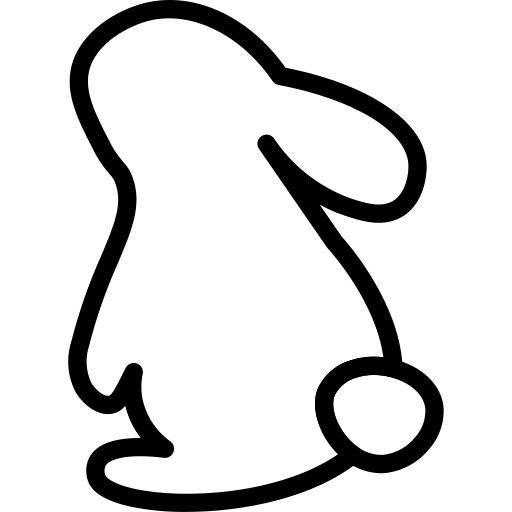
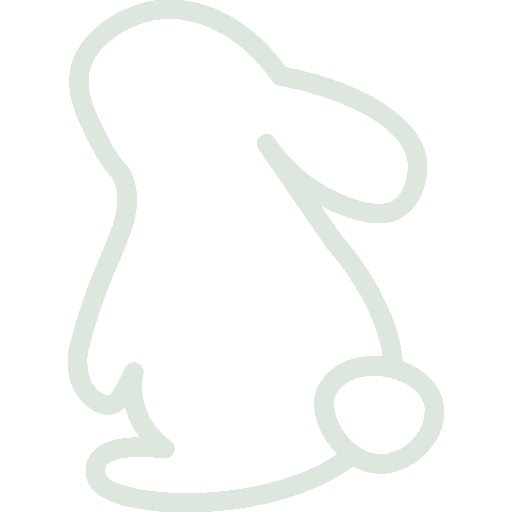
main 두번째화면 작업중
main 두번째화면 작업중

Changed region(s): [[0.125, 0.0, 0.875, 1.0]]

diff --git a/src/scss/_main.scss b/src/scss/_main.scss
@@ -9,6 +9,8 @@
 	touch-action: none;
     background-image: url("../../public/img/rabbit.png");
     background-repeat: no-repeat;        
+    background-size: 20%;
+    background-position: right 45% bottom 10%;
 	.inner {
 		position: relative;
 		display: flex;
@@ -36,7 +38,7 @@
     }
     h2 {
         margin-bottom: 40px;
-        font-size: 80px;
+        font-size: 60px;
         font-weight: 500;
         line-height: 1.3;
     }
@@ -48,11 +50,18 @@
         color: #4a6869;
     }
     .btn {
-        display: felx;
-        padding: 15px 25px;
-        font-size: 15px;
-        border-radius: 100px;
-        color: #fff;
+        display: flex;
+		width: 250px;
+		height: 67px;
+		margin-right: auto;
+		font-size: 18px;
+		border-radius: 100px;
+		color: #fff;
+		background-color: #4a6869;
+		z-index: 1;
+		align-items: center;
+		justify-content: center;
+		transition: all 0.5s;
         &::after {
             content: '>';
             color: #fff;
@@ -60,7 +69,7 @@
     }
     .imgWrap {
         width: 42%;
-        height: 100%;
+        height: 90%;
         z-index: 1;
         img {
             width: 100%;
@@ -78,5 +87,81 @@
 		path {
 			fill: #e0e7e1a3;
 		}
+    }
+}
+
+.mainConts2 {
+    display: flex;
+	position: relative;
+	width: 100%;
+	height: 100vh;
+	padding: 75px 0;
+	background: #fbfbfc;
+	align-items: center;
+	justify-content: center;
+	touch-action: none;
+	.inner {
+		width: 1200px;
+	}
+	.tit {
+		width: 46%;
+		margin-bottom: 3vmin;
+		font-size: 5vmin;
+		font-weight: 400;
+		opacity: 0;
+		transform: translateY(-50px);
+	}
+    .conts {
+        display: flex;
+        flex-wrap: nowrap;
+        .item {
+            position: relative;
+			width: calc(50% - 40px);
+			margin: 0 40px 4vmin 0;
+			padding: 40px 5vmin;
+			border: 1px solid #e7e7e7;
+			transition: all 0.3s;
+			cursor: pointer;
+			background-color: #fbfbfc;
+            ::before {
+                content: "";
+                display: block;
+            }
+            ::after {
+                content: "";
+                display: block;
+            }
+            &:hover ::before {
+                background-color: #fff;
+                box-shadow: 3px 3px 3px red;
+            }
+            &:hover ::after {
+                background-color: #fff;
+                box-shadow: 3px 3px 3px red;
+            }            
+        }
+        .top {
+            display: flex;
+            span[class*="material"] {
+                margin-right: auto;
+                font-size: 50px;
+                color: #4a6869;
+            }
+            .num {
+                font-size: 25px;
+                color: #86878b;
+            }
+        }
+        h2 {
+            margin-bottom: 15px;
+            font-size: 40px;
+            color: #0d0e16;
+        }
+        p {
+            margin-bottom: 20px;
+			font-size: 16px;
+			line-height: 1.4;
+			color: #6e6e75;
+        }
     }
 }

diff --git a/src/components/Main.js b/src/components/Main.js
@@ -10,7 +10,7 @@ function Main() {
             <section className="mainConts1">
                 <div className="inner">
                     <div className="topText">안녕하세요! 김은지의 portfolio입니다.</div>
-                    <h2>매일 발전해나가는 주니어 개발자입니다.</h2>
+                    <h2>매일 발전해나가는 <br></br>주니어 개발자입니다.</h2>
                     <div className="bottomText">어쩌구저쩌구</div>
                     <a href="#test" className="btn">see my project</a>
                     <div className="imgWrap">
@@ -18,6 +18,20 @@ function Main() {
                         <h3>이름~정보~~</h3>
                     </div>
                 </div>
+            </section>
+            <section className='mainConts2'>
+                <div className='inner'>
+                    <h1 className='tit'>My Skills</h1>
+                    <ul className='conts'>
+                        <li className='item'>
+                            <div className='top'>
+                                <span className='num'></span>
+                            </div>
+                            <h2>Frontend</h2>
+                            <p>jQuery Javascript...</p>                        
+                        </li>
+                    </ul>
+                </div>                
             </section>
         </>
 

diff --git a/src/components/MainConts1.js b/src/components/MainConts1.js
@@ -1,0 +1,1 @@
+aa
